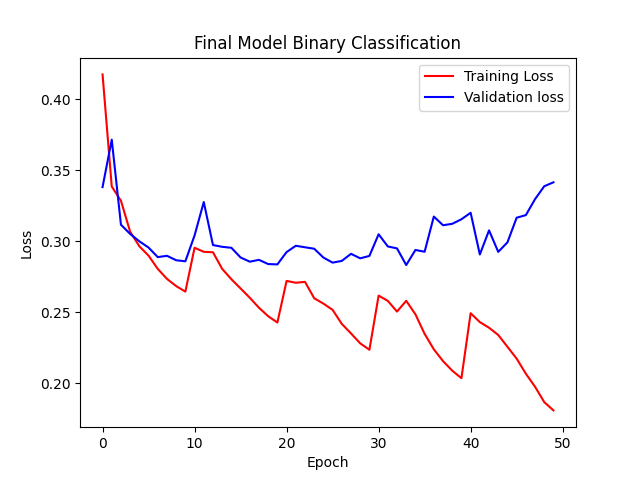
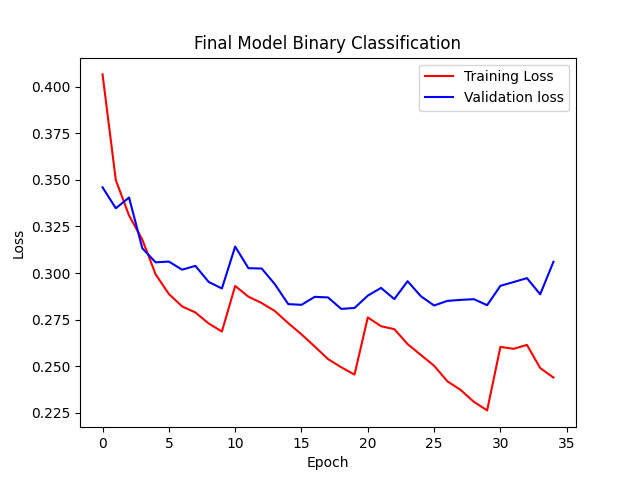
small changes in f

diff --git a/assignment2.py b/assignment2.py
@@ -10,6 +10,7 @@ import torch.nn.functional as F
 from torch.optim.lr_scheduler import StepLR, MultiStepLR, CosineAnnealingLR, CosineAnnealingWarmRestarts
 from torch.utils.data import DataLoader, TensorDataset, ConcatDataset
 from threading import Thread
+from sklearn.metrics import confusion_matrix, ConfusionMatrixDisplay
 
 
 ##########################          Task a)         ########################## 
@@ -488,16 +489,16 @@ def get_data_binary():
     y_train[y_train < 2], y_test[y_test < 2] = 0, 0
     y_train[y_train >= 2], y_test[y_test >= 2] = 1, 1
 
+    X_test, X_val, y_test, y_val = train_test_split(X_test, y_test, test_size=0.5, random_state=17)
 
-    return X, X_train, X_test, y, y_train, y_test
+    return X, X_train, X_test, X_val, y, y_train, y_test, y_val
 
 
 class NeuralNetBinary(nn.Module):
     def __init__(self, dimensions):
       super(NeuralNetBinary, self).__init__()
 
-      # build architecture: input and output size are fixed to 8 and 2
-      # input: 8 features
+      # build architecture: input and output size are fixed to 8 and 1
       layer_setup = [
           nn.Linear(8, dimensions[0]),
           nn.ReLU(),
@@ -522,20 +523,20 @@ class NeuralNetBinary(nn.Module):
 print(f'Training Binary Model now')
 
 # setup
-X, X_train, X_test, y, y_train, y_test = get_data_binary()
+X, X_train, X_test, X_val, y, y_train, y_test, y_val = get_data_binary()
 
 X_train_normalized, X_val_normalized, X_test_normalized = normalize_data(X_train, X_val, X_test)
 train_loader = get_loader(X_train_normalized, y_train, batch_size)
 
 X_test_tensor = torch.tensor(X_test_normalized).float()
 y_test_tensor = torch.tensor(y_test).float().unsqueeze(1)
-
+X_val_tensor = torch.tensor(X_val_normalized).float()
+y_val_tensor = torch.tensor(y_val).float().unsqueeze(1)
 
 # loss function that is usable for binary classification task
 loss_function = nn.BCELoss()
 
 # reconstructing the Final Model from above task
-
 num_epochs = 75
 early_stopping = True
 model = NeuralNetBinary([64, 128, 128, 128, 64])
@@ -544,18 +545,26 @@ label = f'Final Model Binary Classification'
 scheduler = schedulers[scheduler_selected](optimizer)
 patience = 15
 
-# train single model for  binary classification task using the whole training set and evaluate on the test set
+# train single model for binary classification task using training and validation set
 losses_train, losses_val = train(
     model,
     optimizer,
     loss_function,
     train_loader,
     num_epochs,
-    X_test_tensor,
-    y_test_tensor,
+    X_val_tensor,
+    y_val_tensor,
     label,
     scheduler,
     early_stopping,
     patience
 )
 
+model.eval()
+estimations = model(X_test_tensor).detach().numpy()
+estimations_labels = (estimations >= 0.5).astype(int)
+    
+cm = confusion_matrix(y_test_tensor.numpy(), estimations_labels)
+disp = ConfusionMatrixDisplay(confusion_matrix=cm, display_labels=["Avg House Val < 200,000", "Avg House Val >= 200,000"])
+disp.plot(cmap='Blues')
+plt.show()
